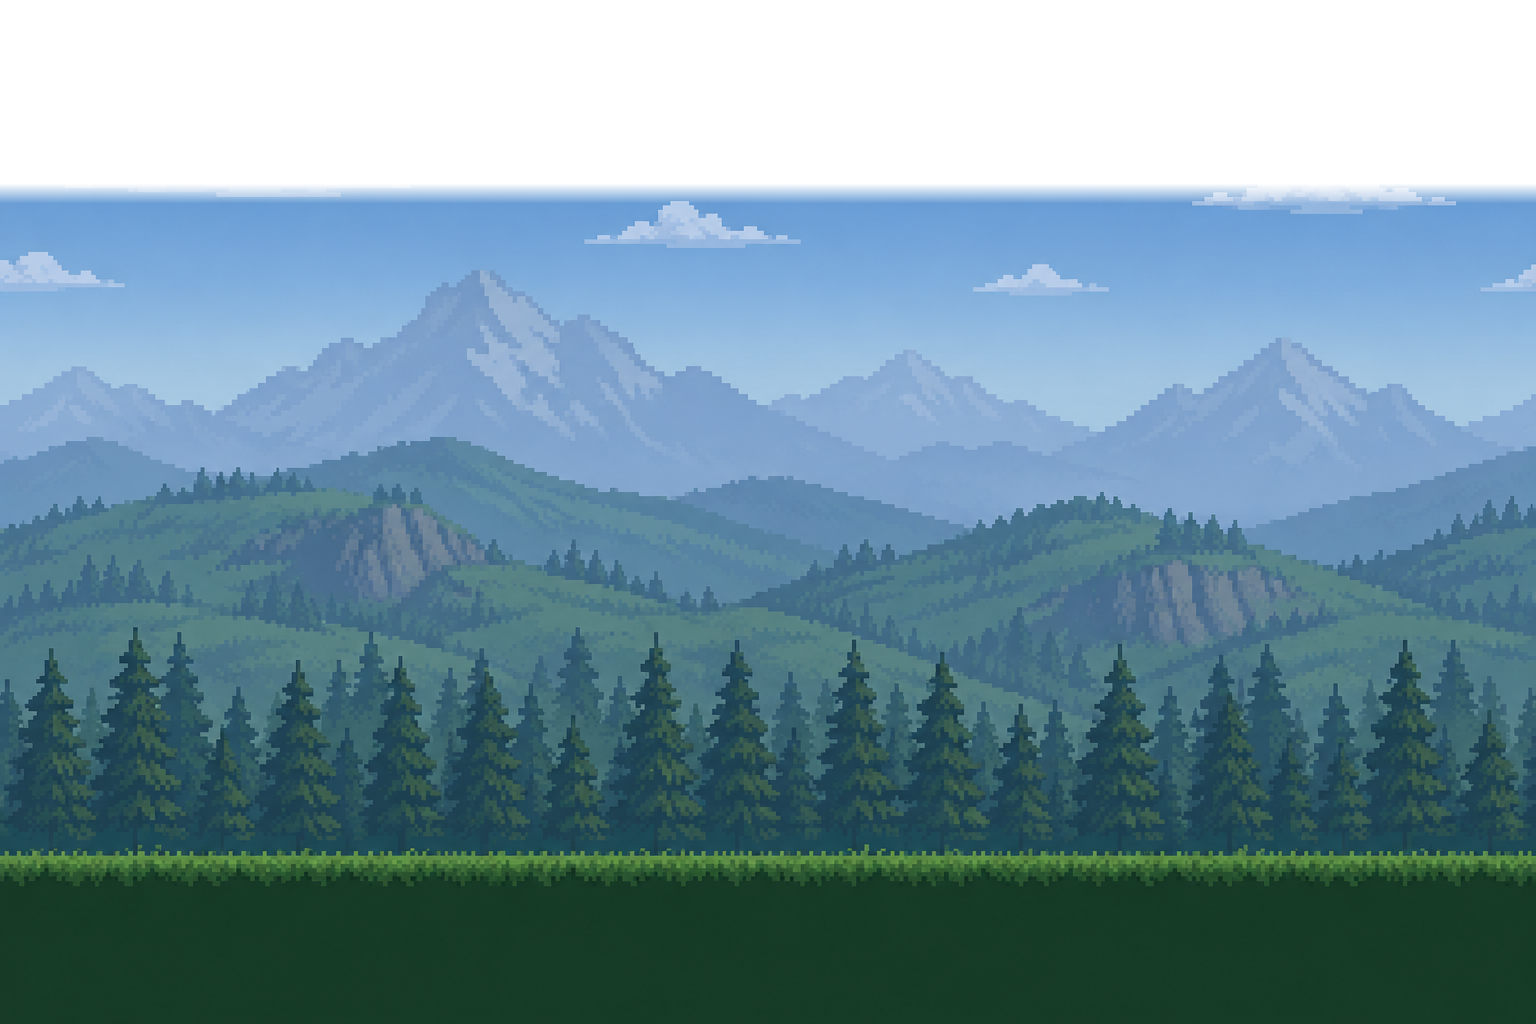
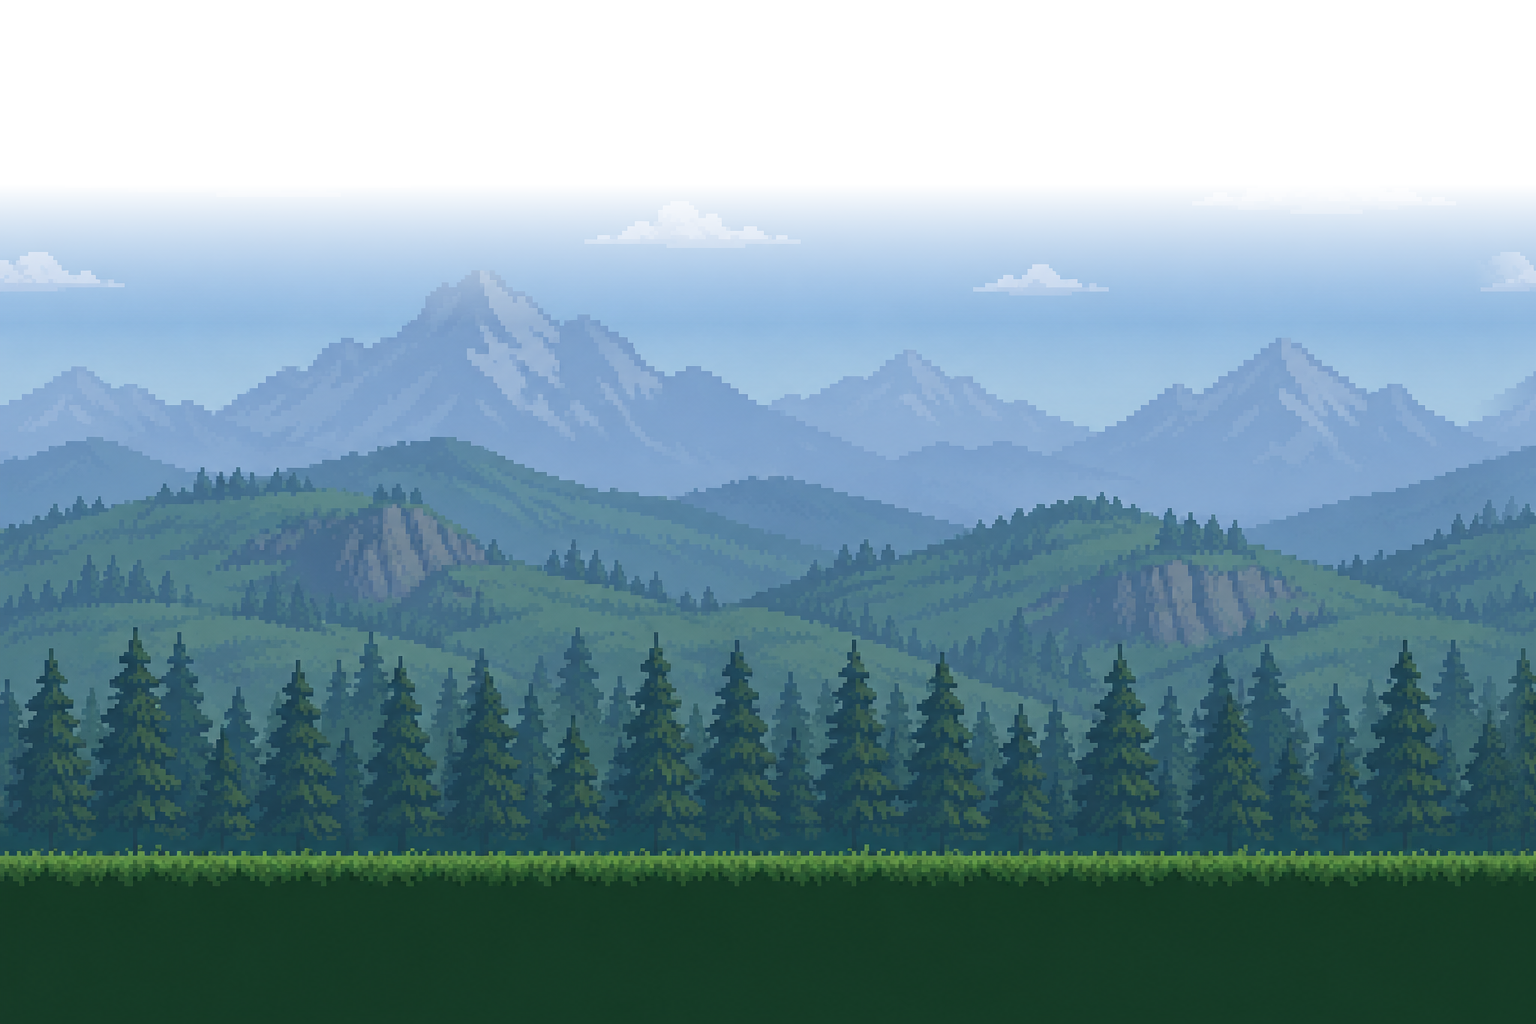
fix(egg-run): yuanjing band overfill + feathered top + blended seam
USER screenshot showed two artifacts: a horizontal cut where the band's
feathered top edge scrolled into view (band too short at 1.0x), and a
vertical seam in the forest where the AI art's 'seamless' loop wasn't.
- asset: alpha feather above the art line extended to 140px so the hazy
  ridge tops dissolve into the DOM sky instead of ending on a line;
  last 64px of each row cross-faded into the first 64px (post-blend
  edge diff 4.8) to kill the forest seam
- code: yuanjing scale 1.0 -> 1.35 (1024 -> 1382px visual) so the band
  always overfills the surface window and the top edge can never
  scroll into view at max camera height
Bump v=247. Screenshot-verified: no horizontal cut line; remaining
column spikes are in-scene tile edges, not the band.

Changed region(s): [[0.0, 0.1562, 1.0, 0.3125], [0.9688, 0.625, 1.0, 0.7812], [0.9688, 0.4688, 1.0, 0.5]]

diff --git a/website/js/game2.js b/website/js/game2.js
@@ -2943,28 +2943,26 @@ var dayCount = 0;               /* nights elapsed — drives moon phase (8-day c
           ? PLAYER_SURFACE_Y : 96 * 32);
         var srcH = img ? img.height : 360;
         var sc = d.n === 'pixelforge_far' || d.n === 'yuanjing_far'
-          ? 1.0 : 1.4;
+          ? 1.35 : 1.4;
         /* TileSprite textures tile at NATIVE pixel size — the legacy
            432px Admurin art needed 1.4x or only ~20px of mountain tips
-           peeked above the surface line; the pixelforge/yuanjing bands
-           are already taller than the surface window, so 1.0 keeps them
-           crisp. */
+           peeked above the surface line. The pixelforge/yuanjing bands
+           are bigger but must still OVERFILL the surface window:
+           yuanjing at 1.35 (1024→1382px visual) keeps its feathered top
+           edge above the highest camera position, so no horizon cut line
+           can ever scroll into view; 1.0 was too short (USER screenshot:
+           horizontal seam near the sky). */
         var lh = srcH * sc;                 /* VISUAL layer height */
-        /* pixelforge band rides 4 tiles higher than the Admurin bands
-           did (USER: "贴图抬高一点"): its own art has generous sky at
-           the top, so lifting it keeps the mountain line well above the
-           horizon instead of hugging the grass row */
+        /* yuanjing rides 2 tiles higher than the Admurin ground anchor
+           (USER: "贴图抬高一点" then "太高了" — 2 tiles settled) */
         var LIFT = (d.n === 'pixelforge_far' ||
                     d.n === 'yuanjing_far') ? 2 * 32 : 0;
         var sy0 = d.top != null
           ? surfPx2 - 600 + d.top * 400     /* clouds: fixed world band */
-          : surfPx2 + 32 - lh - LIFT;       /* ground: bottom ONE TILE
-                                              below the mean surface —
-                                              the grass row slightly
+          : surfPx2 + 32 - lh - LIFT;       /* bottom ONE TILE below the
+                                              mean surface — grass row
                                               overlaps the backdrop's
-                                              base, like Terraria's
-                                              background walls sitting
-                                              under the topsoil */
+                                              base, Terraria-style */
         var ts = S.add.tileSprite(
           0, sy0, (WORLD_W * 32) / sc, srcH, texKey)
           .setOrigin(0, 0)

diff --git a/website/index.html b/website/index.html
@@ -313,6 +313,6 @@ tests/test_invoice.py <span class="s">......</span>  <span class="m">[ 18/1070 ]
 <script src="assets/mc/tiles.meta.js?v=4"></script>
 <script src="js/worldgen.js?v=16"></script>
 <script src="js/vendor/phaser.min.js"></script>
-<script src="js/game2.js?v=246"></script>
+<script src="js/game2.js?v=247"></script>
 </body>
 </html>
